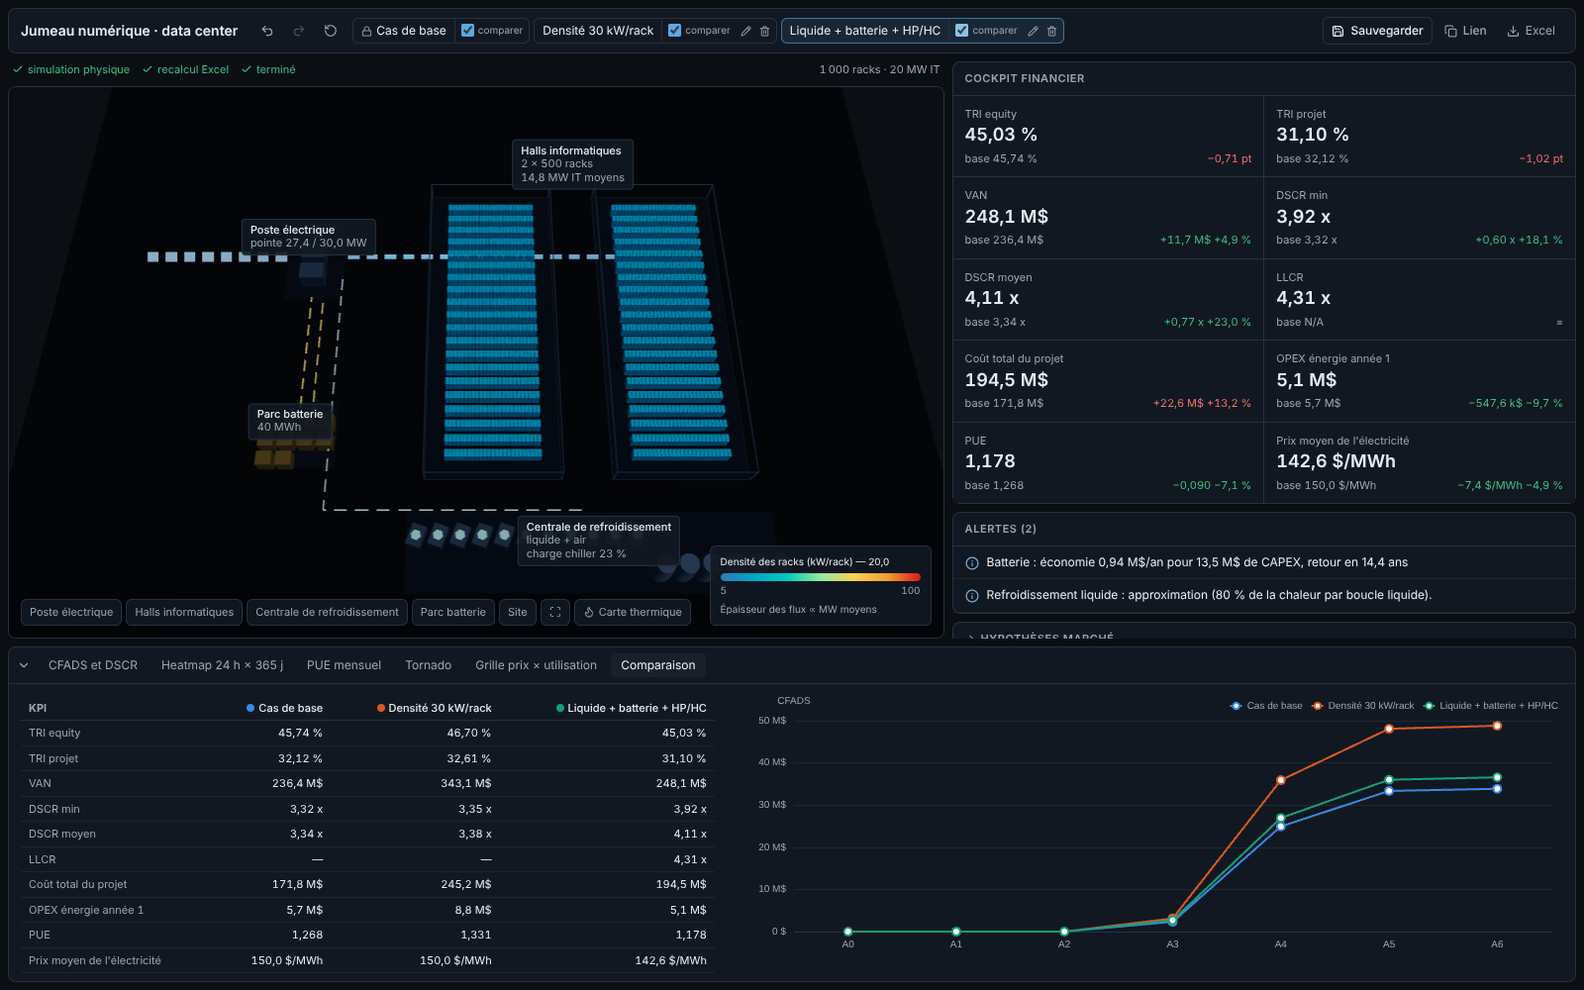
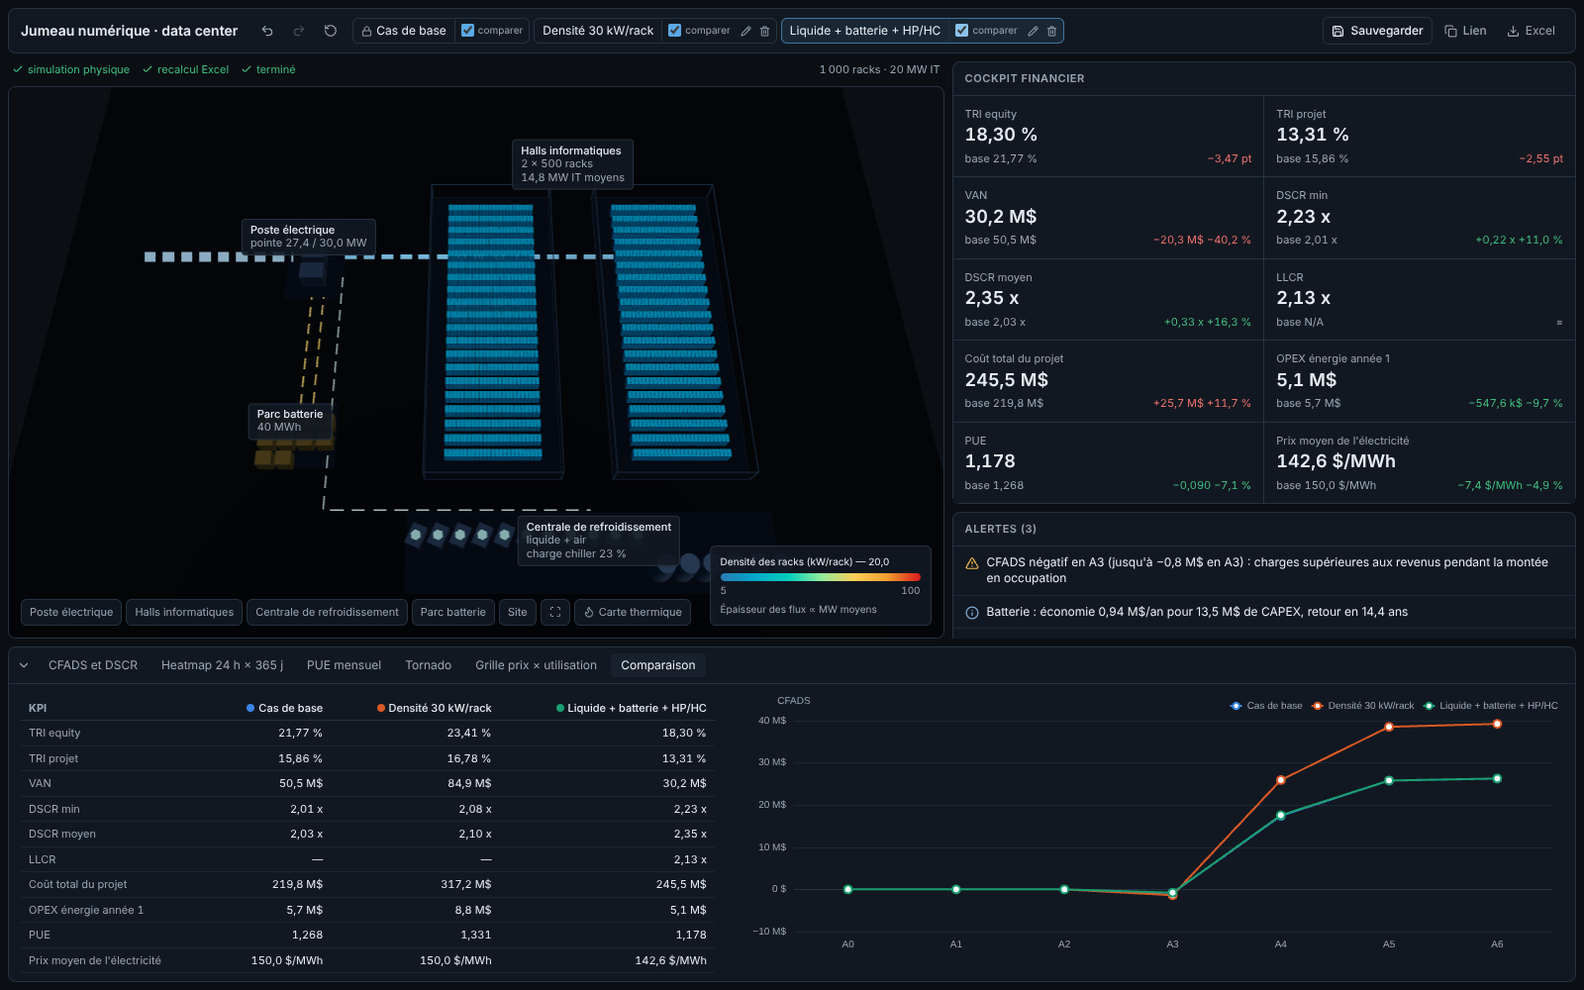
Hypothèses de marché réalistes appliquées au classeur (cas de base)
- bail de gros : loyer 150 $/kW/mois hors énergie + énergie refacturée au coût
  (F134:F143 recâblées, refacturation assise sur les utilities)
- coûts durs × 1,30 (8,3 M$/MW), taux de sortie 8 %, taux actuel 7,5 %,
  assurance 2 $/kW/mois, taux d'actualisation 10 % ; sources dans defaults.yaml
- chaque hypothèse modifiable dans « Hypothèses marché » ; classeur d'origine
  toujours reproductible (original_market)
- résultat : TRI projet 15,9 %, equity 21,8 %, DSCR 2,0x
- test de refacturation, captures (dont 5-hypotheses-marche.png), docs

Claude-Session: https://claude.ai/code/session_01JLvg5PH16yqT8eSWm9VuuN

diff --git a/bridge/mapping.py b/bridge/mapping.py
@@ -19,6 +19,7 @@ from typing import Literal
 
 from pydantic import BaseModel, ConfigDict, Field
 
+from twin import defaults as D
 from twin.results import TwinResults
 
 from .spec import TENANT_ROWS
@@ -34,19 +35,33 @@ CAPEX_KEYS = {
 OPEX_INDEX_NAMES = ("tw_idx_maintenance", "tw_idx_staffing", "tw_idx_insurance", "tw_idx_property_tax")
 
 
+def _market_default(key: str):
+    return lambda: D.value("market", key)
+
+
 class MarketAssumptions(BaseModel):
-    """Panneau « Hypothèses marché ». None = valeur du classeur (ou défaut documenté)."""
+    """Panneau « Hypothèses marché ». Défauts : hypothèses de marché réalistes de defaults.yaml
+    (section ``market``) ; None = valeur du classeur d'origine."""
 
     model_config = ConfigDict(extra="forbid")
 
-    rent_usd_per_kw_month: float | None = Field(None, ge=0, le=2000)
+    rent_usd_per_kw_month: float | None = Field(default_factory=_market_default("rent_usd_per_kw_month"),
+                                                ge=0, le=2000, description="loyer hors énergie si refacturée")
+    energy_passthrough: float | None = Field(default_factory=_market_default("energy_passthrough"), ge=0, le=1,
+                                             description="part des utilities refacturée aux locataires")
+    hard_cost_multiplier: float = Field(default_factory=_market_default("hard_cost_multiplier"), gt=0, le=5,
+                                        description="× coûts durs unitaires (bâtiment, mécanique, électricité, réseau)")
+    exit_cap_rate: float | None = Field(default_factory=_market_default("exit_cap_rate"), gt=0, le=0.3)
+    cap_rate_today: float | None = Field(default_factory=_market_default("cap_rate_today"), gt=0, le=0.3)
+    insurance_usd_per_kw_month: float | None = Field(default_factory=_market_default("insurance_usd_per_kw_month"),
+                                                     ge=0, le=50)
     rent_growth: float | None = Field(None, ge=-0.1, le=0.2)
     absorption_multiplier: float = Field(1.0, gt=0, le=10, description="montée en occupation : × rythme d'absorption")
     carbon_price_usd_per_t: float = Field(0.0, ge=0, le=1000)
     water_price_usd_per_m3: float = Field(0.0, ge=0, le=50)
     idx_energy: float | None = Field(None, ge=-0.1, le=0.3)
     idx_opex: float | None = Field(None, ge=-0.1, le=0.3)
-    discount_rate: float | None = Field(None, gt=0, le=0.5)
+    discount_rate: float | None = Field(default_factory=_market_default("discount_rate"), gt=0, le=0.5)
     perm_debt: bool | None = None
     dscr_covenant: float = Field(1.20, gt=0, le=5, description="alerte de l'interface uniquement")
     calibration: Literal["calibrated", "absolute"] = "absolute"
@@ -64,7 +79,10 @@ class MarketAssumptions(BaseModel):
 def original_market(manifest: dict) -> MarketAssumptions:
     """Hypothèses qui reproduisent le classeur d'origine : valeurs du classeur et part fixe d'origine."""
     return MarketAssumptions(calibration="calibrated",
-                             utilities_fixed_share=manifest["inputs"]["tw_utilities_fixed"]["value"])
+                             utilities_fixed_share=manifest["inputs"]["tw_utilities_fixed"]["value"],
+                             rent_usd_per_kw_month=None, energy_passthrough=None, hard_cost_multiplier=1.0,
+                             exit_cap_rate=None, cap_rate_today=None, insurance_usd_per_kw_month=None,
+                             discount_rate=None)
 
 
 def implicit_property_tax_rate(manifest: dict) -> float:
@@ -120,8 +138,9 @@ def workbook_inputs(twin: TwinResults, twin_base: TwinResults, market: MarketAss
             inputs[name] = market.idx_opex
 
     # --- CAPEX : coûts unitaires du YAML (calés sur le classeur) × quantités du jumeau
-    for line in twin.capex.lines:
-        inputs[CAPEX_KEYS[line.key]] = line.amount_usd
+    for line in twin.capex.lines:  # batterie : coût propre, hors réévaluation des coûts durs
+        factor = 1.0 if line.key == "battery" else market.hard_cost_multiplier
+        inputs[CAPEX_KEYS[line.key]] = line.amount_usd * factor
     if inputs["tw_capex_battery"] > 0:
         inputs["tw_capex_battery_start"] = manifest["context"]["D46"]
         inputs["tw_capex_battery_end"] = manifest["context"]["E46"]
@@ -138,4 +157,11 @@ def workbook_inputs(twin: TwinResults, twin_base: TwinResults, market: MarketAss
         inputs["tw_perm_debt"] = 1.0 if market.perm_debt else 0.0
     if market.discount_rate is not None:
         inputs["tw_discount_rate"] = market.discount_rate
+
+    # --- structure de bail et valorisation
+    for field, name in (("energy_passthrough", "tw_energy_passthrough"), ("exit_cap_rate", "tw_exit_cap"),
+                        ("cap_rate_today", "tw_cap_rate_today"), ("insurance_usd_per_kw_month", "tw_insurance_rate")):
+        value = getattr(market, field)
+        if value is not None:
+            inputs[name] = value
     return inputs

diff --git a/tests/test_bridge.py b/tests/test_bridge.py
@@ -116,7 +116,8 @@ def test_default_base_uses_simulated_energy(bridge, twin_base):
     assert run.outputs["out_utilities_proforma"] == pytest.approx(twin_base.energy_cost_usd)
     assert run.inputs["tw_utilities_fixed"] == pytest.approx(twin_base.fixed_energy_share)
     original = bridge.run_inputs({})
-    assert run.inputs["tw_property_tax"] == pytest.approx(original.inputs["tw_property_tax"])  # mêmes coûts durs
+    multiplier = MarketAssumptions().hard_cost_multiplier  # coûts durs réévalués : la taxe foncière suit
+    assert run.inputs["tw_property_tax"] == pytest.approx(original.inputs["tw_property_tax"] * multiplier)
     # montée en occupation : la 1re année d'exploitation coûte bien moins qu'avec 100 % fixe
     assert run.outputs["out_opex_energy_y1"] < 0.7 * original.outputs["out_opex_energy_y1"]
     i3 = run.years.index(3)
@@ -126,6 +127,17 @@ def test_default_base_uses_simulated_energy(bridge, twin_base):
     # DSCR testé à partir de la première année stabilisée (stabilisation au mois 46 : A5)
     assert run.series["out_dscr"][i3] is None and run.series["out_dscr"][run.years.index(5)] > 0
     assert run.outputs["out_llcr"] is None
+
+
+def test_energy_passthrough_recovers_utilities(bridge, twin_base):
+    """Bail de gros : l'énergie refacturée au coût, au prorata des kW loués, une fois les locataires installés."""
+    full = bridge.run(twin_base, twin_base, MarketAssumptions(energy_passthrough=1.0))
+    none = bridge.run(twin_base, twin_base, MarketAssumptions(energy_passthrough=0.0))
+    i6 = full.years.index(6)  # année stabilisée
+    recovered = (full.series["out_egr"][i6] - none.series["out_egr"][i6]) / (1 - 0.05)  # vacance et impayés 5 %
+    assert recovered == pytest.approx(full.series["out_utilities"][i6], rel=1e-6)
+    # les autres charges restent au bailleur
+    assert full.series["out_opex"][i6] > full.series["out_utilities"][i6]
 
 
 def test_property_tax_follows_hard_costs(bridge, twin_base):
@@ -203,7 +215,8 @@ def test_scenario_scaling_and_export(bridge, twin_base, tmp_path):
     twin = simulate(TwinParams(site_id="us_ny_jfk", geometry={"kw_per_rack": 30}))
     run = bridge.run(twin, twin_base, MarketAssumptions(perm_debt=True), export_path=tmp_path / "s.xlsx")
     assert run.outputs["out_it_load_kw"] == pytest.approx(30_000)
-    assert run.outputs["out_hard_costs"] == pytest.approx(twin.capex.total_usd)
+    market = MarketAssumptions(perm_debt=True)
+    assert run.outputs["out_hard_costs"] == pytest.approx(twin.capex.total_usd * market.hard_cost_multiplier)
     assert isinstance(run.outputs["out_dscr_min"], float) and run.outputs["out_llcr"] > 0
     assert run.recalc_ok
     exported = openpyxl.load_workbook(tmp_path / "s.xlsx", data_only=True)

diff --git a/api/catalog.py b/api/catalog.py
@@ -93,7 +93,21 @@ def parameter_catalog() -> list[ParameterSpec]:
         _p("params.data.carbon_intensity_g_per_kwh", "Intensité carbone (manuelle)", "gCO2/kWh", "site",
            lo=0, hi=1200, step=1, help="Vide = source publique"),
         # marché
-        _p("market.rent_usd_per_kw_month", "Revenu", "$/kW/mois", "market", lo=100, hi=600, step=1, sensitivity=True),
+        _p("market.rent_usd_per_kw_month", "Loyer", "$/kW/mois", "market", lo=50, hi=600, step=1, sensitivity=True,
+           help="Loyer par kW IT loué. Avec l'énergie refacturée (bail de gros), il s'entend hors énergie ; "
+                "le classeur d'origine (285 $/kW/mois) inclut l'énergie."),
+        _p("market.energy_passthrough", "Refacturation de l'énergie", "%", "market", "percent", 0, 1, 0.05,
+           help="Part de l'électricité refacturée au coût aux locataires, au prorata de leurs kW. "
+                "100 % = bail de gros usuel ; 0 % = loyer tout compris (classeur d'origine)."),
+        _p("market.exit_cap_rate", "Taux de capitalisation à la vente", "%", "market", "percent", 0.04, 0.12, 0.0025,
+           sensitivity=True, help="NOI de l'année suivant la vente / prix de vente. Plus il est bas, plus la "
+                                  "cession (et donc le TRI) est élevée."),
+        _p("market.cap_rate_today", "Taux de capitalisation actuel", "%", "market", "percent", 0.04, 0.12, 0.0025,
+           help="Sert à la valeur stabilisée « aujourd'hui » et au rendement de développement."),
+        _p("market.hard_cost_multiplier", "Coûts durs (× coûts unitaires de base)", "×", "market", lo=0.5, hi=2.5,
+           step=0.05, sensitivity=True,
+           help="Multiplie les coûts unitaires de construction (bâtiment, mécanique, électricité, raccordement)."),
+        _p("market.insurance_usd_per_kw_month", "Assurance", "$/kW/mois", "market", lo=0, hi=10, step=0.1),
         _p("market.rent_growth", "Indexation des loyers", "%/an", "market", "percent", 0, 0.06, 0.0025),
         _p("market.absorption_multiplier", "Rythme de montée en occupation", "×", "market", lo=0.25, hi=4, step=0.05,
            sensitivity=True),

diff --git a/bridge/build.py b/bridge/build.py
@@ -27,7 +27,7 @@ from xml.sax.saxutils import escape
 from .spec import (INPUT_SHEET, INPUTS, MONTHLY_OUTPUTS, OUTPUT_SHEET, SCALAR_OUTPUTS, SERIES_OUTPUTS,
                    UNDERWRITING, YEARS)
 
-BRIDGE_VERSION = "4"  # 2 : lignes cohérentes (Excel) ; 3 : dette totale, cession ; 4 : taxe foncière, DSCR stabilisé
+BRIDGE_VERSION = "5"  # 2 : lignes (Excel) ; 3 : dette totale, cession ; 4 : taxe foncière, DSCR ; 5 : refacturation, cap rates, assurance
 NS_MAIN = "http://schemas.openxmlformats.org/spreadsheetml/2006/main"
 NS_REL = "http://schemas.openxmlformats.org/officeDocument/2006/relationships"
 SHEET_CT = "application/vnd.openxmlformats-officedocument.spreadsheetml.worksheet+xml"
@@ -234,6 +234,16 @@ def build_bridge_workbook(src: Path, dst: Path) -> dict:
             raise BuildError(f"{spec.cell} ({spec.name}) n'est pas une constante numérique : {value!r}")
         original[spec.name] = value
         uw = set_formula(uw, spec.cell, spec.name, value)
+
+    # 3. refacturation : un seul taux pour tous les locataires (F134 recâblée ci-dessus, F135:F143 ici),
+    # assise sur les utilities (ligne 153) au lieu du total des charges (ligne 160) : c'est la
+    # refacturation de l'énergie d'un bail de gros. Avec le taux d'origine (0 %), rien ne change.
+    for row in range(135, 144):
+        uw = set_formula(uw, f"F{row}", "tw_energy_passthrough", 0.0)
+    uw, n_recovery = re.subn(r'(<f t="shared" ref="[A-Z]+134:[A-Z]+143" si="\d+">)([^<]*)(</f>)',
+                             lambda m: m.group(1) + m.group(2).replace("$160", "$153") + m.group(3), uw)
+    if n_recovery == 0:
+        raise BuildError("Formules de refacturation (lignes 134 à 143) introuvables.")
 
     # contexte lu dans le classeur (non recâblé) : calendrier de la ligne électrique, pour la batterie
     context = {ref: read_constant(uw, ref, strings) for ref in ("D46", "E46")}

diff --git a/api/kpis.py b/api/kpis.py
@@ -18,8 +18,10 @@ PHYSICS = ["params.cooling.type", "params.cooling.chiller_cop", "params.cooling.
            "params.load.utilization", "params.electrical.fixed_losses_share"]
 ENERGY_PRICE = ["params.price.flat_usd_per_mwh", "params.price.mode", "params.battery.power_mw",
                 "params.battery.energy_mwh", "params.battery.strategy"]
-REVENUE = ["market.rent_usd_per_kw_month", "market.rent_growth", "market.absorption_multiplier"]
-FINANCE_COMMON = GEOMETRY + PHYSICS + ENERGY_PRICE + REVENUE + ["market.idx_energy", "market.idx_opex",
+REVENUE = ["market.rent_usd_per_kw_month", "market.rent_growth", "market.absorption_multiplier",
+           "market.energy_passthrough"]
+FINANCE_COMMON = GEOMETRY + PHYSICS + ENERGY_PRICE + REVENUE + ["market.exit_cap_rate", "market.hard_cost_multiplier",
+                                                                "market.idx_energy", "market.idx_opex",
                                                                 "market.carbon_price_usd_per_t",
                                                                 "market.water_price_usd_per_m3"]
 

diff --git a/bridge/spec.py b/bridge/spec.py
@@ -53,6 +53,10 @@ INPUTS: list[InputSpec] = [
     InputSpec("tw_idx_insurance", "marché", "%/an", "Indexation assurance", "G156"),
     InputSpec("tw_idx_property_tax", "marché", "%/an", "Indexation taxe foncière", "G159"),
     InputSpec("tw_property_tax", "opex", "$/an", "Taxe foncière annuelle (pro forma)", "K159"),
+    InputSpec("tw_insurance_rate", "opex", "$/kW/mois", "Assurance, par kW IT", "H156"),
+    InputSpec("tw_energy_passthrough", "marché", "%", "Refacturation de l'énergie aux locataires (F134:F143)", "F134"),
+    InputSpec("tw_cap_rate_today", "marché", "%", "Taux de capitalisation de marché actuel", "K175"),
+    InputSpec("tw_exit_cap", "marché", "%", "Taux de capitalisation à la vente", "K176"),
     InputSpec("tw_capex_sitework", "capex", "$", "Voirie et réseaux", "K41"),
     InputSpec("tw_capex_concrete_structure", "capex", "$", "Béton et charpente", "K42"),
     InputSpec("tw_capex_envelope", "capex", "$", "Enveloppe", "K43"),

diff --git a/api/surrogate.py b/api/surrogate.py
@@ -45,6 +45,10 @@ GROUPS = [
     Group("idx_opex", OPEX_INDEX_NAMES, "abs", 0.005),
     Group("utilities_fixed", ("tw_utilities_fixed",), "abs", 0.05),
     Group("property_tax", ("tw_property_tax",), "log", LOG_STEP),
+    Group("energy_passthrough", ("tw_energy_passthrough",), "abs", 0.05),
+    Group("exit_cap", ("tw_exit_cap",), "abs", 0.0025),
+    Group("cap_rate_today", ("tw_cap_rate_today",), "abs", 0.0025),
+    Group("insurance", ("tw_insurance_rate",), "log", LOG_STEP),
     Group("capex_building", tuple(BUILDING_LINES), "log", LOG_STEP),
     Group("capex_mechanical", ("tw_capex_mechanical",), "log", LOG_STEP),
     Group("capex_electrical", ("tw_capex_electrical",), "log", LOG_STEP),

diff --git a/docs/phase5.md b/docs/phase5.md
@@ -14,7 +14,7 @@ Vérifié sur le clone neuf : `make setup web-install` sans erreur. Avec `make d
 
 | Commande | Tests | Résultat |
 |---|---|---|
-| `make test` | 58 tests Python | ✔ 58 passés (≈ 105 s) |
+| `make test` | 59 tests Python | ✔ 59 passés (≈ 110 s) |
 | `make e2e` | parcours navigateur, 10 contrôles | ✔ tous passent |
 
 ### Moteur (`tests/test_engine.py`, `tests/test_vendor_parity.py`)
@@ -52,7 +52,7 @@ Vérifié sur le clone neuf : `make setup web-install` sans erreur. Avec `make d
 | Moteur | `test_price_plus_ten_percent_gives_cost_plus_ten_percent` | coût d'énergie × 1,10 à 1e-12 |
 | Classeur | `test_price_plus_ten_percent_end_to_end` (bridge) | OPEX énergie an 1 × 1,10 à 1e-9 ; TRI projet et equity en baisse |
 | API | `test_price_plus_ten_percent_end_to_end` (api) | écart KPI OPEX +10 % ; TRI projet et equity défavorables |
-| Interface | `make e2e` | saisie du prix +10 % dans l'inspecteur → « OPEX énergie année 1 : 6,2 M$, base 5,7 M$, +565 k$ **+10,0 %** » ; TRI equity −3,11 pt ; TRI projet −2,30 pt |
+| Interface | `make e2e` | saisie du prix +10 % dans l'inspecteur → « OPEX énergie année 1 : 6,2 M$, base 5,7 M$, +565 k$ **+10,0 %** » ; TRI equity −0,41 pt ; TRI projet −0,23 pt (énergie refacturée : seule la part non refacturée pèse sur le bailleur) |
 
 ### Parcours navigateur (`web/e2e/e2e.mjs`)
 
@@ -79,26 +79,19 @@ Site de base New York JFK, en attendant l'accès à la météo du Panama (voir R
 | 3. Refroidissement liquide + batterie 10 MW / 40 MWh + tarif HP/HC (220 $/MWh de 17 h à 21 h les jours ouvrés, 90 $/MWh sinon) + refinancement ; carte thermique activée, DSCR et covenant | ![](screenshots/3-liquide-batterie-hphc.png) |
 | Comparaison des 3 scénarios (tableau des KPI + CFADS superposés) | ![](screenshots/4-comparaison.png) |
 
-| KPI | Cas de base | Densité 30 kW | Liquide + batterie + HP/HC (même prix moyen) |
+| KPI | Cas de base | Densité 30 kW | Liquide + batterie + HP/HC (même prix moyen) + refinancement |
 |---|---|---|---|
-| TRI equity (avant impôt) | 45,74 % | 46,70 % | 45,03 % |
-| TRI projet (avant impôt) | 32,12 % | 32,61 % | 31,10 % |
-| VAN (8 %) | 236,4 M$ | 343,1 M$ | 248,1 M$ |
-| DSCR min / moyen (années stabilisées) | 3,32x / 3,34x | 3,35x / 3,38x | 3,92x / 4,11x |
-| LLCR | N/A | N/A | 4,31x |
-| Coût total du projet | 171,8 M$ | 245,2 M$ (raccordement renforcé à 48 MW) | 194,5 M$ |
-| OPEX énergie an 1 | 5,7 M$ | 8,8 M$ | 5,1 M$ |
+| TRI equity (avant impôt) | 21,77 % | 23,41 % | 18,30 % |
+| TRI projet (avant impôt) | 15,86 % | 16,78 % | 13,31 % |
+| VAN (10 %) | 50,5 M$ | 84,9 M$ | 30,2 M$ |
+| DSCR min / moyen (années stabilisées) | 2,01x / 2,03x | 2,08x / 2,10x | 2,23x / 2,35x |
+| LLCR | N/A | N/A | 2,13x |
+| Coût total du projet | 219,8 M$ | 317,2 M$ (raccordement renforcé à 48 MW) | 245,5 M$ |
+| OPEX énergie an 1 (refacturée aux locataires) | 5,7 M$ | 8,8 M$ | 5,1 M$ |
 | PUE (simulé, utilisé par le classeur) | 1,268 | 1,331 | 1,178 |
 | Prix moyen de l'électricité | 150,0 $/MWh | 150,0 $/MWh | 142,6 $/MWh |
 
-Hypothèses : voir [revue-financiere.md](revue-financiere.md).
-
-- **Charge et pertes.** Les serveurs tirent 74 % de la puissance contractuelle (40 % de CPU), et 5 % de la puissance IT de conception part en pertes fixes.
-- **Raccordement.** Il est dimensionné sur la pointe de conception.
-- **Taxe foncière.** Elle est proportionnelle aux coûts durs.
-- **DSCR.** Il est mesuré à partir de la première année stabilisée.
-- **Scénario 3.** Son tarif HP/HC a le même prix moyen que le tarif plat : 135 $/MWh, et 260 $/MWh de 17 h à 21 h les jours ouvrés. À prix égal, refroidissement liquide et batterie (retour en 14,4 ans) **ne relèvent pas** le TRI : leur CAPEX dépasse l'économie d'énergie.
-- **Niveau des TRI.** Ils sont élevés à cause du loyer tout compris (285 $/kW/mois) et du taux de sortie (6,75 %) du classeur. Ce sont les hypothèses à valider en priorité.
+Hypothèses de marché réalistes (bail de gros, coûts et taux de 2025–2026) : voir [revue-financiere.md](revue-financiere.md), section « Hypothèses de marché réalistes ». Capture du cas de base avec le panneau des hypothèses : `docs/screenshots/5-hypotheses-marche.png`.
 
 ## Ce qui n'a pas pu être vérifié ici
 

diff --git a/docs/revue-financiere.md b/docs/revue-financiere.md
@@ -83,3 +83,27 @@ Chacune de ces valeurs garde sa source dans `twin/config/defaults.yaml`. Le mode
 - **Cas de base.** Il devient très rentable (TRI projet 32 %, equity 46 %). L'énergie réellement consommée (24,6 M$/an) est bien inférieure à l'hypothèse pleine puissance du classeur (39,4 M$), alors que le loyer de 285 $/kW/mois, énergie comprise, ne change pas. Ce niveau de TRI n'est crédible que si ce loyer et le taux de sortie de 6,75 % le sont : **ce sont les deux hypothèses à valider en priorité**.
 - **Refroidissement liquide et batterie.** À prix moyen égal, ils ne relèvent pas le TRI : leur CAPEX (+22,7 M$) dépasse l'économie d'énergie. La batterie se rembourse en 14,4 ans.
 - **Densité à 30 kW/rack.** Elle impose un renforcement du raccordement à 48 MW (+4,6 M$).
+
+## Hypothèses de marché réalistes (cas de base)
+
+Ces hypothèses sont appliquées au classeur dans `Inputs_Twin`. Python n'écrit que là, jamais dans une formule. Chacune est modifiable dans le panneau « Hypothèses marché » ; ses sources sont dans `twin/config/defaults.yaml`, section `market`. Le classeur d'origine reste reproductible à l'identique avec `original_market`.
+
+| Hypothèse | Classeur d'origine | Cas de base réaliste | Justification |
+|---|---|---|---|
+| Structure de bail | loyer tout compris | **bail de gros : loyer + énergie refacturée au coût** | pratique usuelle des baux de gros ; le risque sur le prix de l'électricité passe au locataire |
+| Loyer | 285 $/kW/mois (énergie comprise) | **150 $/kW/mois hors énergie** | Amérique latine ≈ 130–180 $/kW/mois ; moyenne mondiale CBRE 217 $/kW/mois tout compris (T1 2025) |
+| Refacturation de l'énergie | 0 % | **100 %** au prorata des kW loués | F134:F143 recâblées sur `tw_energy_passthrough` ; refacturation assise sur les utilities (ligne 153) au lieu du total des charges |
+| Coûts durs | 6,4 M$/MW | **8,3 M$/MW (× 1,30)** | Cushman & Wakefield : 9,3–15 M$/MW aux États-Unis (2025), +21 % depuis fin 2024 |
+| Taux de capitalisation à la vente | 6,75 % | **8,0 %** | 5–6,5 % aux États-Unis (2025–2026) + prime de risque pays Panama |
+| Taux de capitalisation actuel | 6,0 % | **7,5 %** | même logique |
+| Assurance | 0,5 $/kW/mois (120 k$/an) | **2,0 $/kW/mois (480 k$/an)** | ≈ 0,25 % de la valeur de remplacement |
+| Taux d'actualisation (VAN) | 8 % | **10 %** | projet de développement en marché émergent |
+| Taxe foncière | 1,1 M$/an | 1,43 M$/an | suit les coûts durs réévalués |
+
+Inchangés, car jugés plausibles : prêt de construction à 9 % (marché bancaire panaméen en dollars), LTC de 65 %, indexation de 2 %/an, vacance et impayés de 5 %, frais de gestion de 3 %, maintenance (10 $/kW/mois) et personnel (5 $/kW/mois), frais de vente de 2 %, horizon de 72 mois, prix de l'électricité de 150 $/MWh (gros client au Panama, désormais refacturé).
+
+### Résultat
+
+TRI projet **15,9 %**, TRI equity **21,8 %** (avant impôt), VAN à 10 % de 50,5 M$, DSCR stabilisé 2,0x. Le rendement sur coût est d'environ 11,8 %, soit environ 380 points de base au-dessus du taux de sortie : une marge de développement usuelle. Le prix de l'électricité ne pèse plus que sur la part non refacturée : +10 % sur le prix fait perdre 0,4 point de TRI equity, contre 3 à 8 points en bail tout compris.
+
+Ces hypothèses restent des **ordres de grandeur publics**. À remplacer par les termes réels : lettres d'intention des locataires, chiffrage local des coûts de construction, offre bancaire et avis d'un évaluateur pour le taux de sortie.

diff --git a/README.md b/README.md
@@ -38,7 +38,7 @@ Au démarrage, l'API calcule le cas de base (≈ 3 s), puis précalcule en tâch
 
 | Commande | Rôle |
 |---|---|
-| `make test` | 58 tests Python : parité avec SustainDC, moteur, non-régression du classeur, API |
+| `make test` | 59 tests Python : parité avec SustainDC, moteur, non-régression du classeur, API |
 | `make e2e` | test dans un vrai navigateur (Playwright) + captures dans `docs/screenshots/`. Chromium : `npx playwright install chromium`, ou `PLAYWRIGHT_CHROMIUM=/chemin/chrome` |
 | `make bench` | temps d'une simulation annuelle |
 | `make bridge` | reconstruit la copie pont du classeur (`build/twin_model.xlsm`) |
